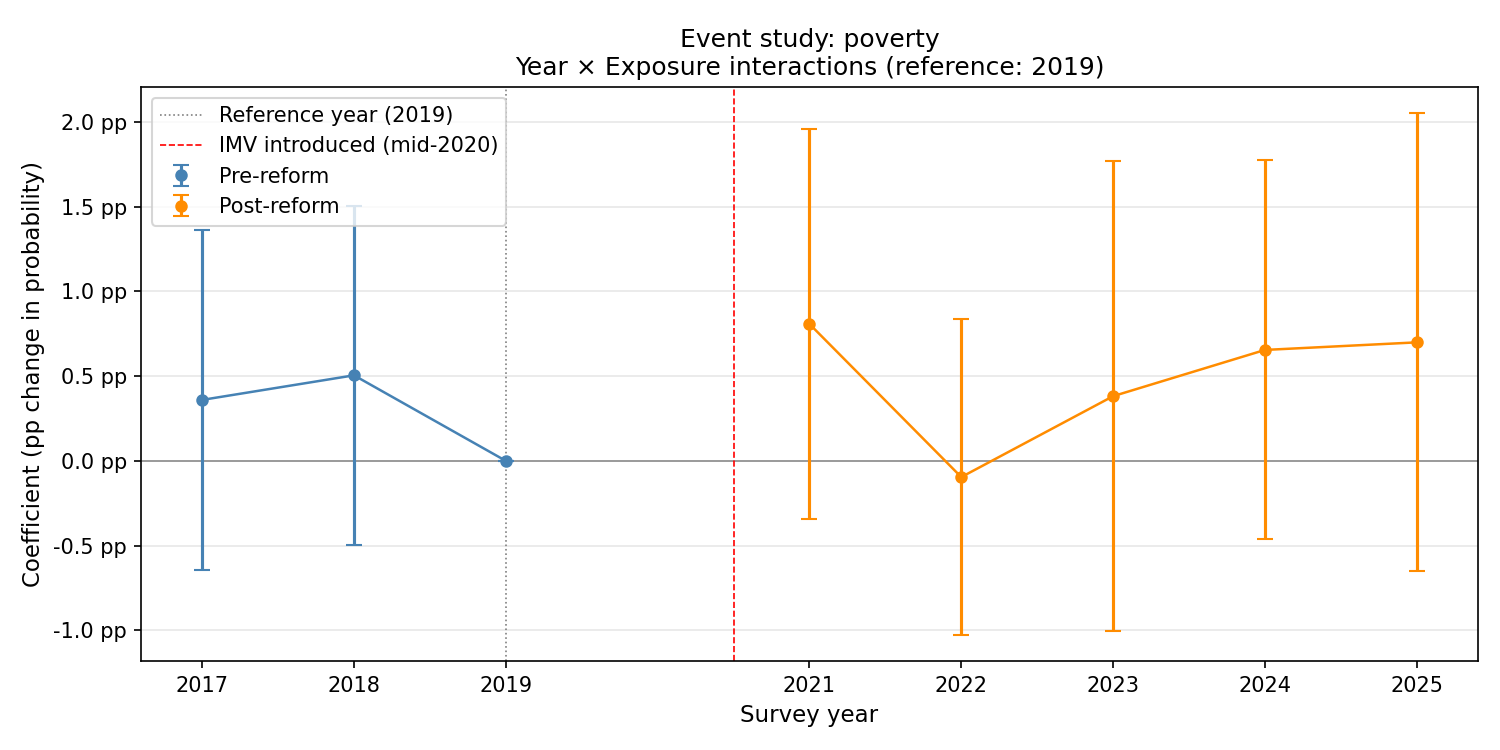
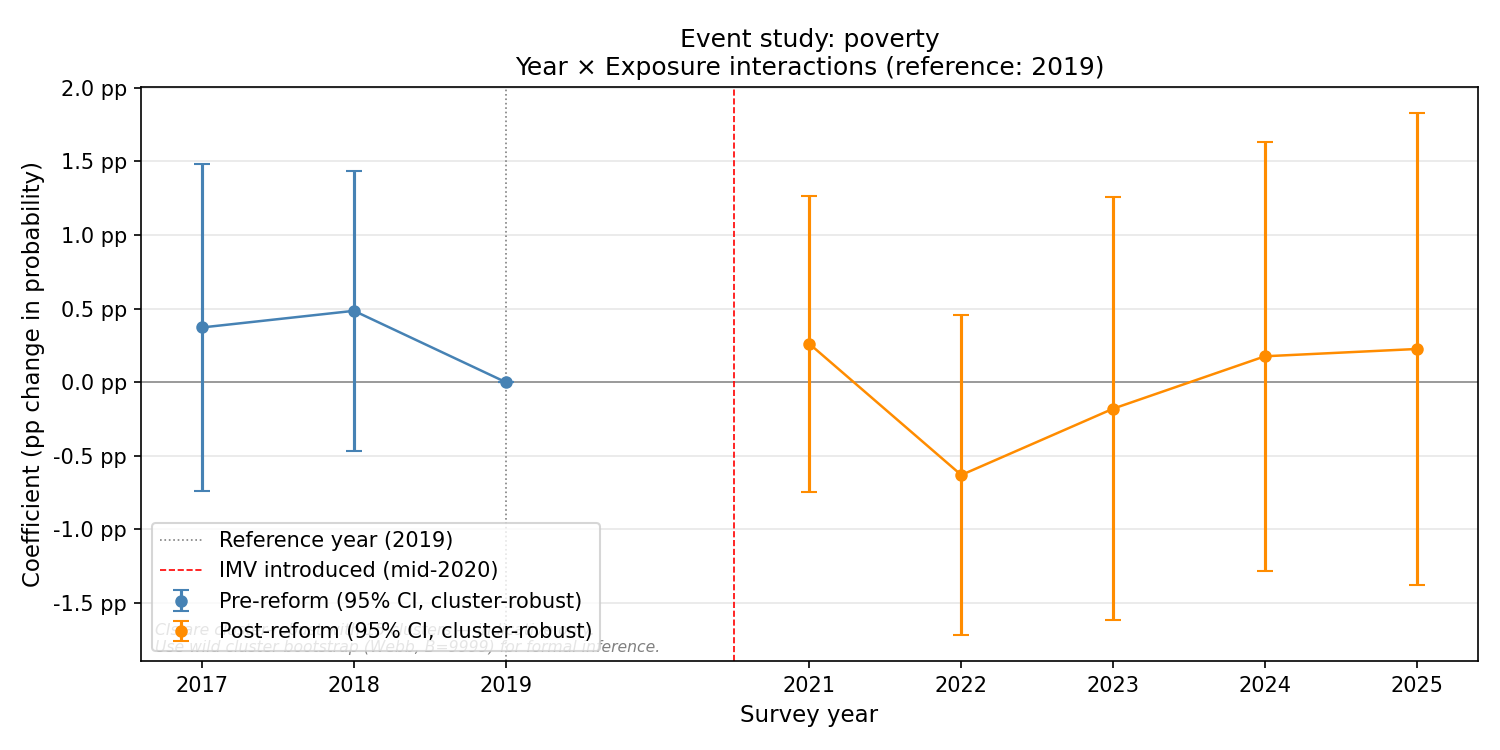
Event study

diff --git a/src/event_study.py b/src/event_study.py
@@ -40,6 +40,11 @@ Design decisions
 5. PRIMARY SPEC ONLY
    Event study uses exposure_composite_hybrid only. Robustness across
    alternative specs is checked in the baseline DiD, not here.
+
+6. REGION-SPECIFIC LINEAR TRENDS
+   When EVENT_STUDY_REGION_TREND=True in constants.py, adds region ×
+   linear time trend terms to absorb pre-existing differential trends.
+   Used as robustness check for the income pre-trend concern.
 """
 
 from __future__ import annotations
@@ -53,9 +58,12 @@ import statsmodels.api as sm
 
 from src.constants import (
     BALANCE_CONTROLS,
-    EXPOSURE_SPECS,
+    BALANCE_CONTROLS_EXTENDED,
+    EVENT_STUDY_REGION_TREND,
     EVENT_STUDY_REFERENCE_YEAR,
     EVENT_STUDY_YEARS,
+    EXPOSURE_SPECS,
+    REGION_NAMES,
 )
 
 logger = logging.getLogger(__name__)
@@ -105,23 +113,28 @@ def run_event_study(
     panel: pl.DataFrame,
     outcome: str = "matdep",
     controls: list[str] | None = None,
-) -> tuple[pd.DataFrame, object]:
+    extended_controls: bool = False,
+) -> tuple[pd.DataFrame, object, dict[str, float]]:
     """
     Estimate the event study via WLS with region and year FE.
 
     Parameters
     ----------
-    panel    : panel with event study columns from build_event_study_data()
-    outcome  : outcome variable — "matdep", "poverty", or "income_net_annual"
-    controls : household-level controls — defaults to BALANCE_CONTROLS
+    panel            : panel with event study columns from build_event_study_data()
+    outcome          : outcome variable — "matdep", "poverty", or "income_net_annual"
+    controls         : household-level controls — defaults to BALANCE_CONTROLS
+    extended_controls: if True, use BALANCE_CONTROLS_EXTENDED (includes labour vars)
 
     Returns
     -------
-    coef_table : pd.DataFrame — year, coef, se, ci_low, ci_high
-    result     : statsmodels RegressionResultsWrapper — full model output
+    coef_table  : pd.DataFrame — year, coef, se, ci_low, ci_high, pval
+    result      : statsmodels RegressionResultsWrapper — full model output
+    wbt_results : dict — wild bootstrap p-values for pre-reform interactions
     """
+    # ── Controls ──────────────────────────────────────────────────────────────
     if controls is None:
-        controls = [c for c in BALANCE_CONTROLS if c in panel.columns]
+        ctrl_list = BALANCE_CONTROLS_EXTENDED if extended_controls else BALANCE_CONTROLS
+        controls = [c for c in ctrl_list if c in panel.columns]
 
     interaction_cols = [f"yr_{y}_x_exposure" for y in EVENT_STUDY_YEARS]
     year_dummy_cols  = [f"yr_{y}" for y in EVENT_STUDY_YEARS]
@@ -136,35 +149,76 @@ def run_event_study(
     keep = [c for c in keep if c in panel.columns]
 
     df = panel.select(keep).to_pandas().dropna(subset=[outcome] + interaction_cols)
+    df = df.reset_index(drop=True)
     logger.info("Estimation sample: %d observations", len(df))
 
     # ── Region fixed effects via dummies ──────────────────────────────────────
-    # With repeated cross-sections, household ID is unique within year so
-    # entity FE cannot absorb region effects. We add region dummies explicitly.
-    # drop_first=True drops one region to avoid perfect multicollinearity
-    # with the constant.
+    # drop_first=True drops the region with the lowest drgn2 code as reference.
     region_dummies = pd.get_dummies(
         df["drgn2"], prefix="reg", drop_first=True
     ).astype(float)
-    df = pd.concat([df.reset_index(drop=True), region_dummies], axis=1)
+    df = pd.concat([df, region_dummies], axis=1)
     region_cols = region_dummies.columns.tolist()
 
-    # ── Regressors ────────────────────────────────────────────────────────────
-    # Year × exposure interactions: these are the coefficients of interest
-    # Year dummies: absorb aggregate year shocks (year FE)
-    # Region dummies: absorb time-invariant regional characteristics (region FE)
-    # Controls: household-level controls to reduce residual variance
-    regressors = interaction_cols + year_dummy_cols + region_cols + controls
+    # ── Log reference region ──────────────────────────────────────────────────
+    all_regions = sorted(df["drgn2"].unique().tolist())
+    ref_region_code = all_regions[0]
+    ref_region_name = REGION_NAMES.get(int(ref_region_code), str(ref_region_code))
+    logger.info(
+        "Region FE reference category: drgn2=%d (%s) — "
+        "all region effects interpreted relative to this region",
+        ref_region_code, ref_region_name,
+    )
+
+    # ── Optional: region-specific linear time trends ──────────────────────────
+    # Absorbs pre-existing differential trends across regions.
+    # Addresses income pre-trend concern (F=2.72, p=0.100 without trends).
+    # Activated by EVENT_STUDY_REGION_TREND = True in constants.py.
+    trend_cols: list[str] = []
+    if EVENT_STUDY_REGION_TREND:
+        df["year_centered"] = df["year"] - EVENT_STUDY_REFERENCE_YEAR
+        for reg_col in region_cols:
+            trend_col = f"{reg_col}_trend"
+            df[trend_col] = df[reg_col] * df["year_centered"]
+            trend_cols.append(trend_col)
+        logger.info(
+            "Region-specific linear time trends added: %d trend terms",
+            len(trend_cols),
+        )
+
+    # ── Build regressors ──────────────────────────────────────────────────────
+    # Order: interactions (coefs of interest) | year dummies (year FE) |
+    #        region dummies (region FE) | trends (robustness) | controls
+    regressors = (
+        interaction_cols
+        + year_dummy_cols
+        + region_cols
+        + trend_cols
+        + controls
+    )
     regressors = [c for c in regressors if c in df.columns]
 
     X = sm.add_constant(df[regressors])
     y = df[outcome]
     w = df["weight_hh"]
 
+    # ── Rank check ────────────────────────────────────────────────────────────
+    rank   = np.linalg.matrix_rank(X.values)
+    n_cols = X.shape[1]
+    if rank < n_cols:
+        logger.warning(
+            "RANK DEFICIENCY: design matrix rank=%d but has %d columns. "
+            "Perfect multicollinearity detected — check region dummies vs "
+            "year × exposure interactions. Dropped columns will have NaN coefs.",
+            rank, n_cols,
+        )
+    else:
+        logger.info(
+            "Design matrix rank check passed: rank=%d = n_cols=%d ✓",
+            rank, n_cols,
+        )
+
     # ── Estimate WLS with cluster-robust SEs ──────────────────────────────────
-    # Cluster at region level (drgn2). Note: with 15 clusters, these SEs
-    # should be treated as indicative only — wild bootstrap is needed for
-    # valid inference (implemented in run_baseline_did.py).
     model  = sm.WLS(y, X, weights=w)
     result = model.fit(
         cov_type="cluster",
@@ -172,9 +226,37 @@ def run_event_study(
     )
 
     logger.info(
-        "Event study estimated — outcome: %s | R²=%.4f | N=%d",
+        "Event study estimated — outcome: %s | R²=%.4f | N=%d | "
+        "region trends: %s",
         outcome, result.rsquared, int(result.nobs),
+        "yes" if EVENT_STUDY_REGION_TREND else "no",
     )
+
+    # ── Wild cluster bootstrap for pre-reform interactions ────────────────────
+    wbt_results: dict[str, float] = {}
+    pre_cols = ["yr_2017_x_exposure", "yr_2018_x_exposure"]
+    pre_cols_present = [c for c in pre_cols if c in result.params.index]
+
+    try:
+        from wildboottest.wildboottest import wildboottest
+        for col in pre_cols_present:
+            wbt = wildboottest(
+                model,
+                cluster=df["drgn2"].values,
+                param=col,
+                B=9999,
+                weights_type="webb",
+                seed=42,
+            )
+            wbt_results[col] = float(wbt["p_value"])
+        logger.info("Wild cluster bootstrap complete: %s", wbt_results)
+    except ImportError:
+        logger.warning(
+            "wildboottest not installed — run: pip install wildboottest. "
+            "Cluster-robust p-values used instead."
+        )
+    except Exception as e:
+        logger.warning("wildboottest failed: %s — cluster-robust SEs used instead", e)
 
     # ── Extract interaction coefficients ──────────────────────────────────────
     rows = []
@@ -206,4 +288,4 @@ def run_event_study(
         .sort_values("year")
         .reset_index(drop=True)
     )
-    return coef_table, result
+    return coef_table, result, wbt_results

diff --git a/run_event_study.py b/run_event_study.py
@@ -17,6 +17,7 @@ from pathlib import Path
 import matplotlib.pyplot as plt
 import matplotlib.ticker as mtick
 import polars as pl
+import numpy as np
 
 from src.event_study import build_event_study_data, run_event_study
 from src.constants import EVENT_STUDY_REFERENCE_YEAR
@@ -74,8 +75,8 @@ def plot_event_study(
     post = coef_table[coef_table["year"] >  EVENT_STUDY_REFERENCE_YEAR]
 
     for subset, color, label in [
-        (pre,  "steelblue",  "Pre-reform"),
-        (post, "darkorange", "Post-reform"),
+        (pre,  "steelblue",  "Pre-reform (95% CI, cluster-robust)"),
+        (post, "darkorange", "Post-reform (95% CI, cluster-robust)"),
     ]:
         ax.errorbar(
             subset["year"], subset["coef"],
@@ -110,15 +111,18 @@ def plot_event_study(
     ax.legend(fontsize=10)
     ax.grid(axis="y", alpha=0.3)
 
+    ax.text(
+        0.01, 0.01,
+        "CIs are cluster-robust with 15 clusters — indicative only.\n"
+        "Use wild cluster bootstrap (Webb, B=9999) for formal inference.",
+        transform=ax.transAxes, fontsize=7.5,
+        color="grey", va="bottom", style="italic"
+    )
+
     plt.tight_layout()
     plt.savefig(output_path, dpi=150)
     plt.close()
     logger.info("Plot saved: %s", output_path)
-
-
-# =============================================================================
-# MAIN
-# =============================================================================
 
 def main() -> None:
     logger.info("=== IMV DiD — run_event_study.py ===")
@@ -131,26 +135,50 @@ def main() -> None:
     for outcome in ["matdep", "poverty", "income_net_annual"]:
         logger.info("--- Outcome: %s ---", outcome)
 
-        coef_table, result = run_event_study(panel, outcome=outcome)
+        coef_table, result, wbt_results = run_event_study(panel, outcome=outcome)
 
         # Print coefficients
         print(f"\n=== Event study — {outcome} ===")
         print(coef_table.to_string(index=False, float_format="{:.4f}".format))
 
-        # Pre-trend joint test: are 2017 and 2018 coefficients jointly zero?
+        # Pre-trend joint F-test (cluster-robust)
         pre_cols = ["yr_2017_x_exposure", "yr_2018_x_exposure"]
         pre_cols_present = [c for c in pre_cols if c in result.params.index]
         if pre_cols_present:
-            constraints = ", ".join([f"{c} = 0" for c in pre_cols_present])
-            joint_test = result.f_test(constraints)
-            print(f"\nPre-trend joint F-test (2017, 2018 = 0):")
-            print(f"  F-stat  = {float(joint_test.fvalue):.4f}")
-            print(f"  p-value = {float(joint_test.pvalue):.4f}")
-            if float(joint_test.pvalue) > 0.1:
-                print("  → Pre-trends not rejected at 10% — parallel trends supported")
-            else:
-                print("  → WARNING: Pre-trends rejected — parallel trends concern")
+            param_names = result.params.index.tolist()
+            R = np.zeros((len(pre_cols_present), len(param_names)))
+            for i, col in enumerate(pre_cols_present):
+                if col in param_names:
+                    R[i, param_names.index(col)] = 1.0
+                else:
+                    logger.warning("Pre-trend column %s not in params — skipping", col)
 
+            joint_test = result.f_test(R)
+            f_stat  = float(np.squeeze(joint_test.fvalue))
+            p_value = float(joint_test.pvalue)
+
+            print(f"\nPre-trend joint F-test (2017, 2018 jointly = 0):")
+            print(f"  F-stat  = {f_stat:.4f}")
+            print(f"  p-value = {p_value:.4f} (cluster-robust, indicative only — 15 clusters)")
+
+            # Wild bootstrap results (computed inside run_event_study)
+            if wbt_results:
+                print(f"\n  Wild cluster bootstrap (Webb weights, B=9999):")
+                for col, p_wbt in wbt_results.items():
+                    print(f"    {col}: p = {p_wbt:.4f}")
+                print(
+                    "  Note: wild bootstrap reports individual p-values.\n"
+                    "  Joint pre-trend test uses cluster-robust F-stat above."
+                )
+            else:
+                print("  Wild bootstrap not available — install wildboottest.")
+
+            if p_value > 0.1:
+                print("  → Pre-trends not rejected at 10% (cluster-robust)")
+            else:
+                print("  → WARNING: Pre-trends rejected at 10% (cluster-robust)")
+
+        # Save coefficients
         coef_table.to_csv(
             OUTPUT_DIR / f"event_study_{outcome}.csv", index=False
         )
@@ -161,8 +189,6 @@ def main() -> None:
             OUTPUT_DIR / f"event_study_{outcome}.png",
         )
 
-    logger.info("Event study complete. Results saved to %s", OUTPUT_DIR)
-
-
+        logger.info("Event study complete. Results saved to %s", OUTPUT_DIR)
 if __name__ == "__main__":
     main()

diff --git a/src/constants.py b/src/constants.py
@@ -539,14 +539,29 @@ BALANCE_OUTCOMES: list[str] = [
     "income_net_annual",
 ]
 
+# Safe controls: pre-determined, cannot be affected by the IMV reform
 BALANCE_CONTROLS: list[str] = [
     "hh_size",
-    "any_unemployed_hh",
-    "single_parent_hh",
-    "homeowner",
     "n_children",
+    "homeowner",
     "any_high_education_hh",
+    "single_parent_hh",
 ]
+
+# Extended controls: includes labour market variables that may be
+# endogenous to the reform — used in robustness checks only
+BALANCE_CONTROLS_EXTENDED: list[str] = [
+    "hh_size",
+    "n_children",
+    "homeowner",
+    "any_high_education_hh",
+    "single_parent_hh",
+    "any_unemployed_hh",
+    "any_employed_hh",
+]
+
+# Flag: whether to add region-specific linear time trends as robustness
+EVENT_STUDY_REGION_TREND: bool = False   # set True for robustness run
 
 BALANCE_PRIMARY_SPEC: str = "exposure_composite_hybrid"
 
